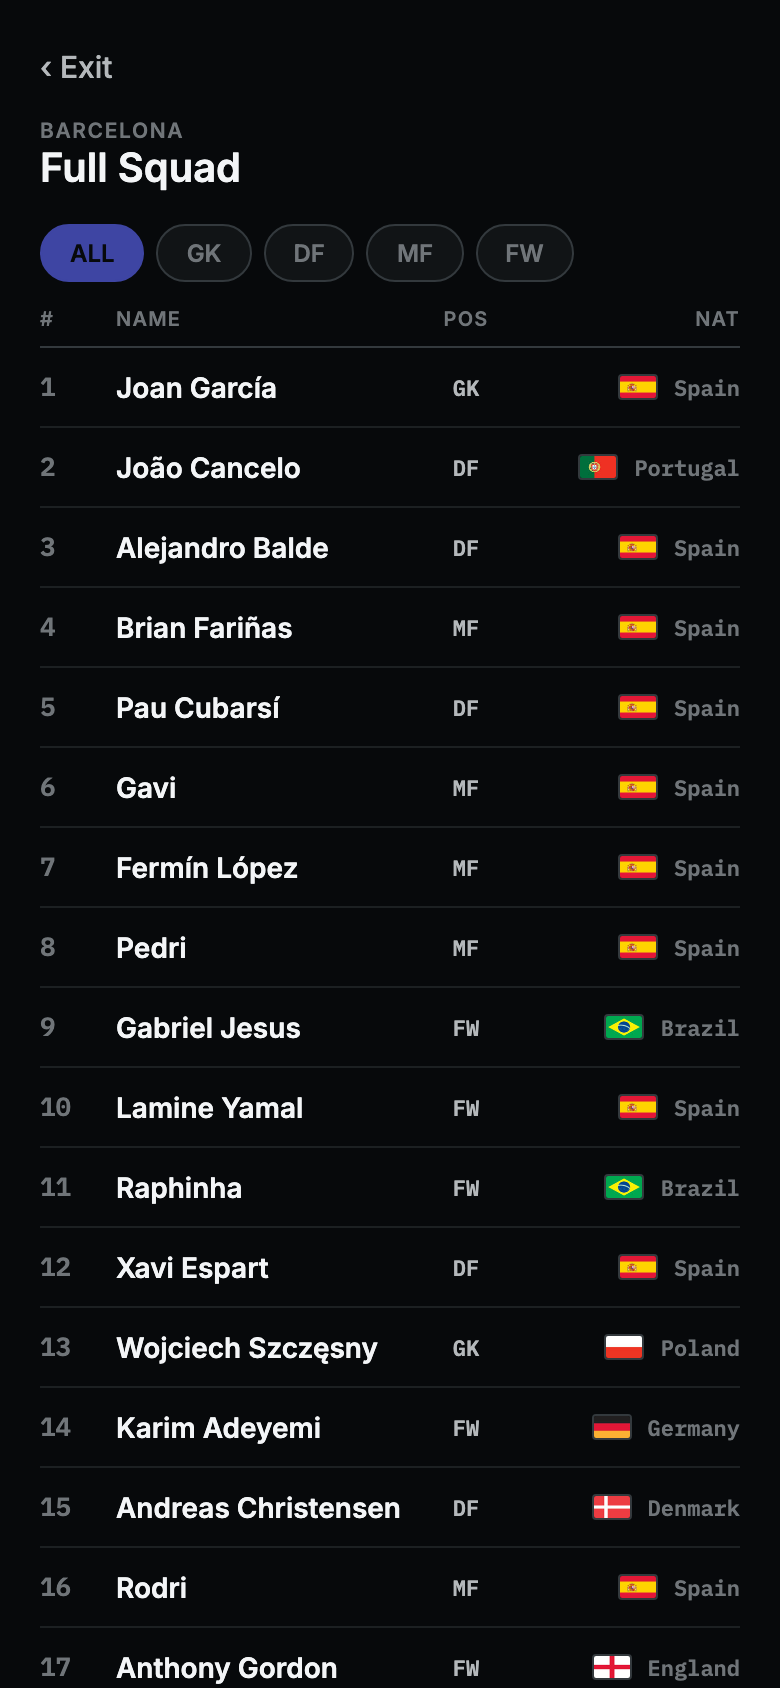
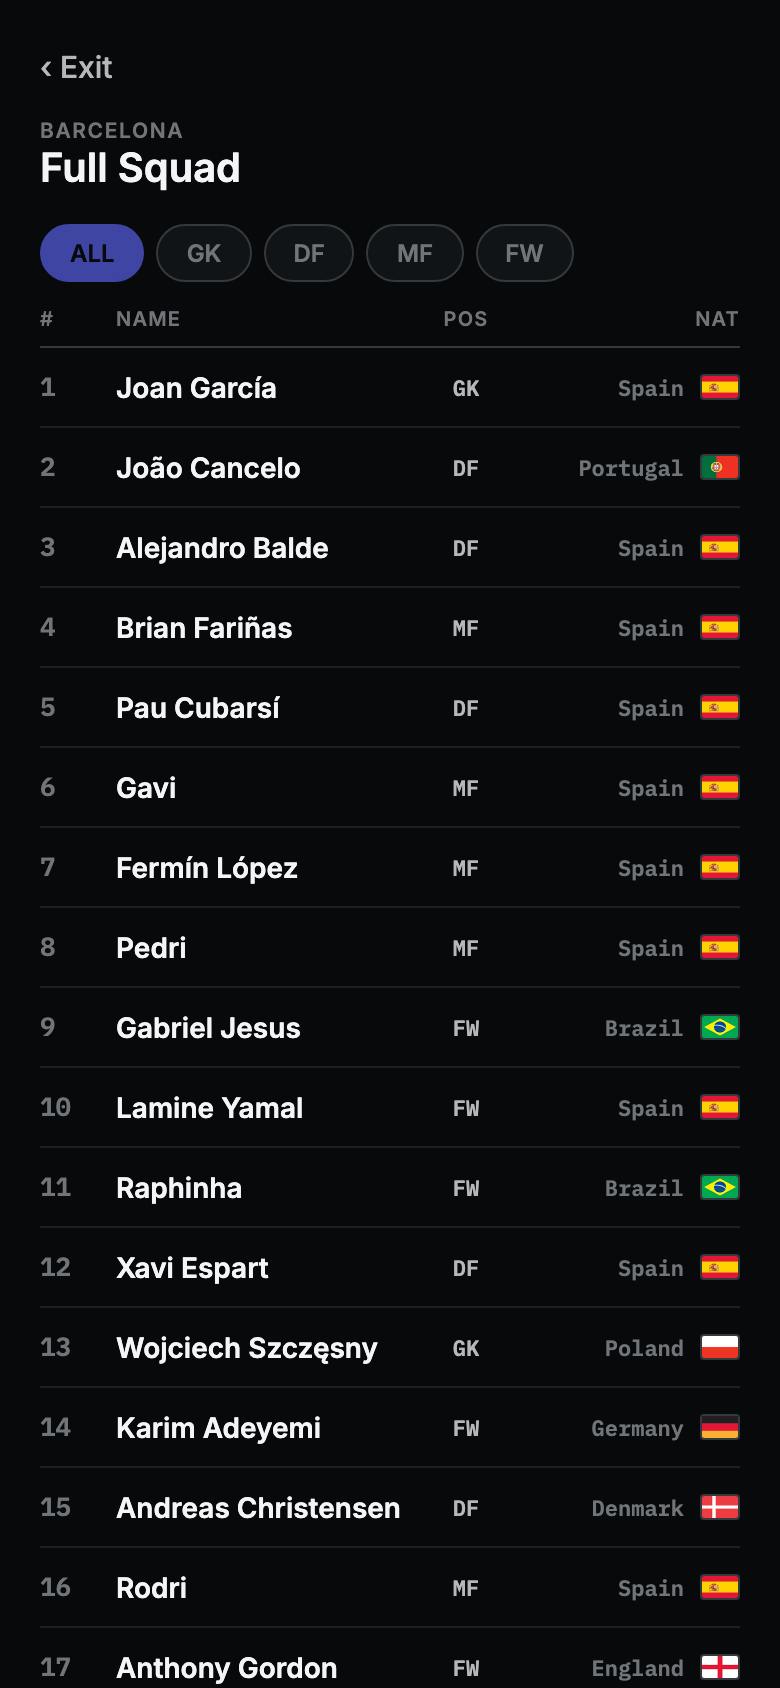
design: right-align Study flags, and record the flag licence
The affiliation cell puts the flag after the text, so every flag lands on the
same right edge instead of shifting with the length of the name beside it.

Provenance is Wikipedia / Wikimedia Commons. Commons media is licensed
per-file rather than under one blanket licence; national flags there are
overwhelmingly public domain, a minority CC BY-SA. Per-file licences are
still unverified and must be confirmed before any store build.

diff --git a/components/StudyRow.tsx b/components/StudyRow.tsx
@@ -25,10 +25,10 @@ export function StudyRow({ number, name, position, affiliation, flag }: StudyRow
       </Text>
       <Text style={[styles.position, { width: sizes.studyColumn.position }]}>{position}</Text>
       <View style={[styles.affiliationCell, { width: sizes.studyColumn.affiliation }]}>
-        {flag ? <Flag code={flag} size="row" label={affiliation} /> : null}
         <Text style={styles.affiliation} numberOfLines={1}>
           {affiliation}
         </Text>
+        {flag ? <Flag code={flag} size="row" label={affiliation} /> : null}
       </View>
     </View>
   );
@@ -64,6 +64,9 @@ const styles = StyleSheet.create({
   number: { ...typography.statMonoSmall, color: colors.textMuted },
   name: { flex: 1, ...typography.tableName, color: colors.textPrimary, marginLeft: spacing.sm },
   position: { ...typography.tableCell, color: colors.textSecondary, textAlign: 'center' },
+  // Flag last, not first, so every flag lands on the same right edge and the
+  // column reads as one aligned strip — a leading flag shifts with the length
+  // of the name beside it.
   affiliationCell: {
     flexDirection: 'row',
     alignItems: 'center',

diff --git a/assets/flags/README.md b/assets/flags/README.md
@@ -27,6 +27,16 @@ fails if either step is skipped.
 
 ## Provenance
 
-TODO: origin and licence unknown. What is observable: 214 files, FIFA
-three-letter codes, 70×46 px. This must be resolved before any App Store or
-Play Store distribution. Not a v0 blocker — v0 is not distributed.
+Sourced from Wikipedia / Wikimedia Commons.
+
+Wikipedia's own article content is licensed CC BY-SA 4.0. Media files hosted
+on Commons are licensed individually rather than under one blanket licence,
+and national flag images there are overwhelmingly public domain: a flag
+design is generally either uncopyrightable or an official government insignia
+released for free use. A minority of Commons flag renderings are contributed
+under CC BY-SA, which requires attribution and share-alike.
+
+The per-file licence of each of the 214 images here has not been individually
+verified. That is fine for v0, which is not distributed. Before any App Store
+or Play Store build, confirm the individual licences and add an attribution
+screen for any file that turns out to require one.
